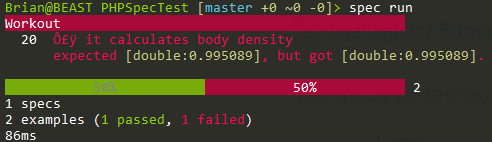
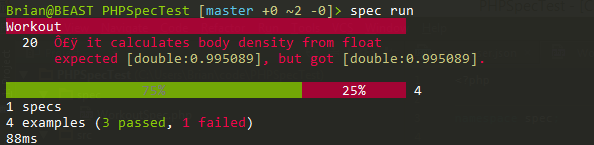
Add Int and Str assertions Update Screenshot

diff --git a/spec/WorkoutSpec.php b/spec/WorkoutSpec.php
@@ -17,7 +17,13 @@ class WorkoutSpec extends ObjectBehavior
         $this->shouldHaveType('Workout');
     }
 
-    function it_calculates_body_density() {
-        $this->calculateBodyDensity()->shouldReturn(0.995089);
+    function it_calculates_body_density_from_float() {
+        $this->calculateBodyDensityFloat()->shouldReturn(0.995089);
+    }
+    function it_calculates_body_density_from_integer() {
+        $this->calculateBodyDensityInt()->shouldReturn(0);
+    }
+    function it_calculates_body_density_from_string() {
+        $this->calculateBodyDensityString()->shouldReturn("0.995089");
     }
 }

diff --git a/src/Workout.php b/src/Workout.php
@@ -13,7 +13,7 @@ class Workout
      *
      * @return float
      */
-    public function calculateBodyDensity()
+    public function calculateBodyDensityFloat()
     {
         $sum = $this->measurements['caliper_chest']
             + $this->measurements['caliper_abdomen']
@@ -23,4 +23,9 @@ class Workout
 
         return $bodyDensity;
     }
+
+    public function calculateBodyDensityInt() { return intval($this->calculateBodyDensityFloat());}
+
+    public function calculateBodyDensityString() { return strval($this->calculateBodyDensityFloat() ); }
+
 }
